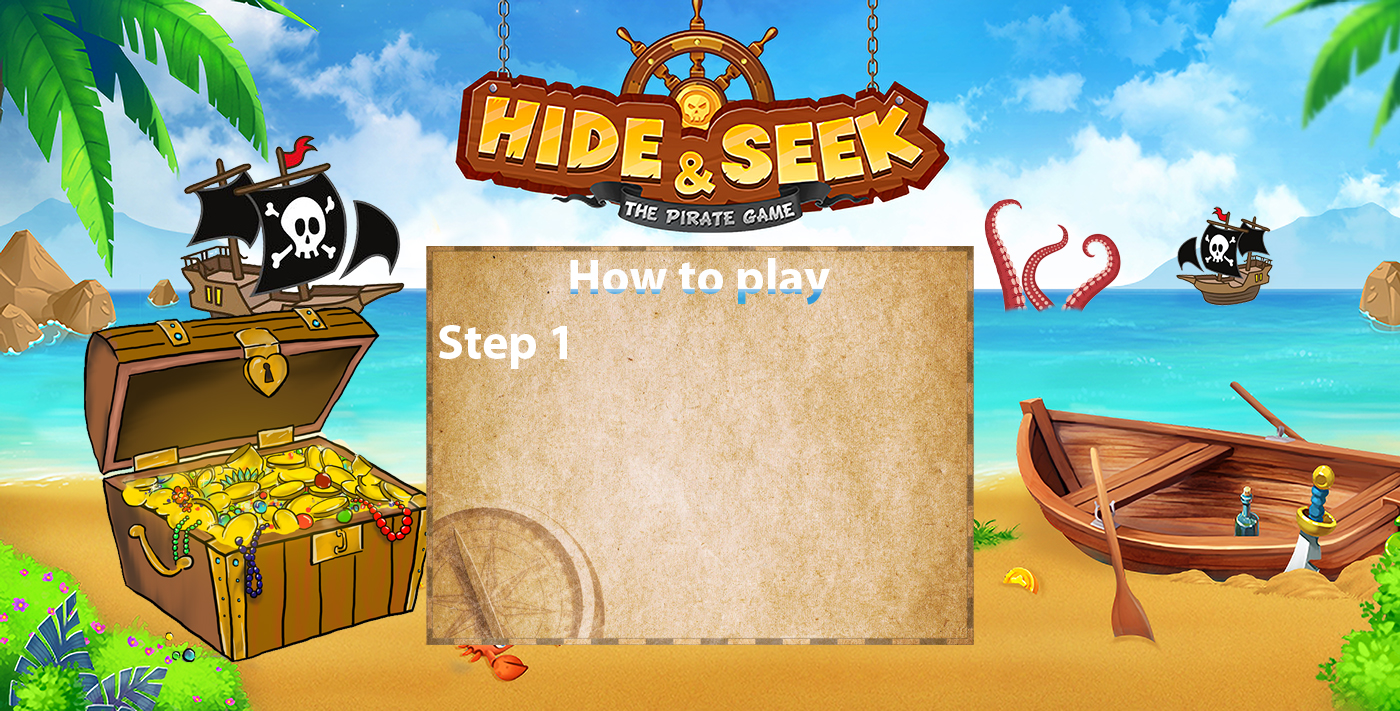
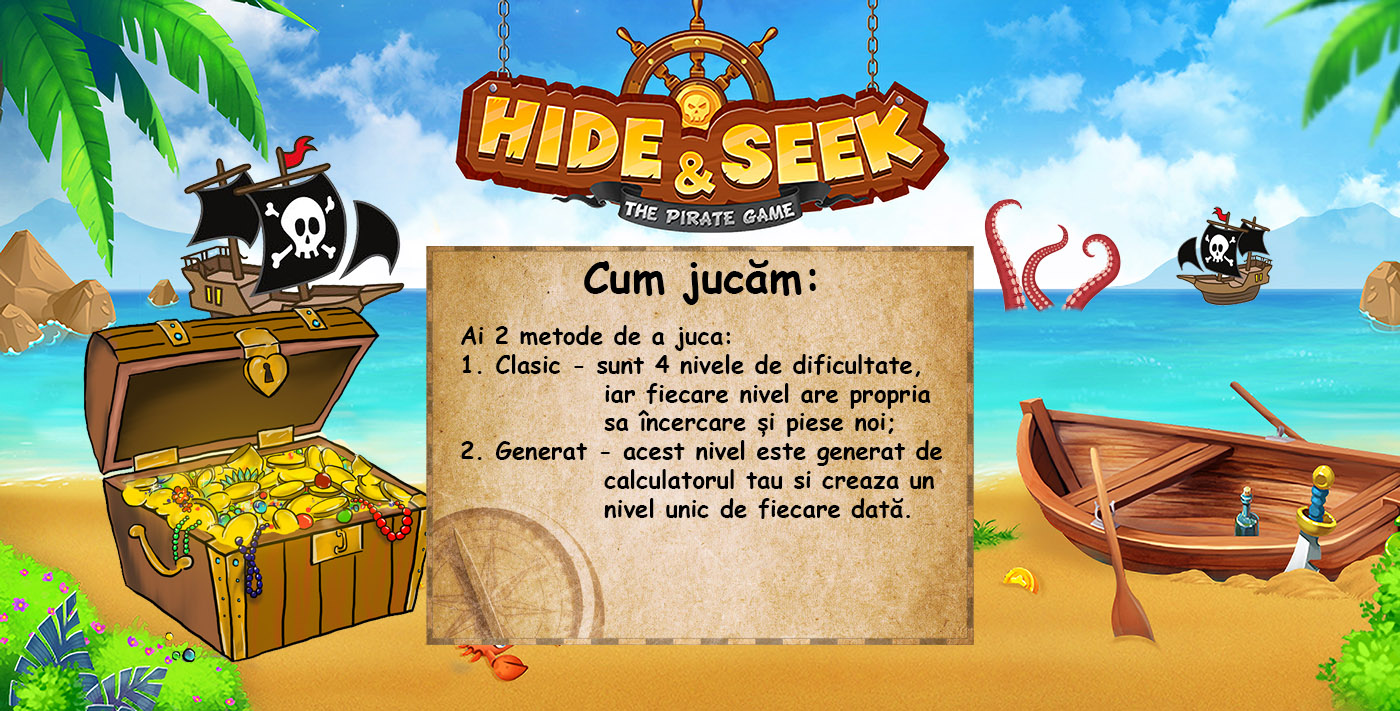
Am finisat niste chestii
Tutorialul l-am editat si am pus comment la functii (cine a creat functia)

Changed region(s): [[0.3071, 0.4332, 0.6757, 0.7426], [0.3993, 0.3404, 0.6143, 0.4332]]

diff --git a/main.cpp b/main.cpp
@@ -70,7 +70,8 @@ void rotate90Clockwise(int a[N][N]) //functie pentru a roti piesa selectata
     }
 }
 
-void refresh_board(int squares, int first_poz, int selected_level){ //citeste din nou matricea tablei de joc: squares - cate patrate trebuie citite,
+void refresh_board(int squares, int first_poz, int selected_level){ // Creat de: Erhan Adrian
+                                                //                                    citeste din nou matricea tablei de joc: squares - cate patrate trebuie citite,
                                                 //                                        first_poz - de la care patrat incepem citirea
     ifstream fi; string aux;
     if (selected_level == 1){
@@ -114,7 +115,7 @@ void refresh_board(int squares, int first_poz, int selected_level){ //citeste di
     fi.close();
 }
 
-void read_shapes(){
+void read_shapes(){ // Creat de: Erhan Adrian
     ifstream fi;
     ofstream fo;
     string aux;
@@ -148,7 +149,8 @@ void read_shapes(){
 }
 //End
 
-void hide_matrix(int a[][3],int b[][3]){//logica pentru suprapunerea matricelor
+void hide_matrix(int a[][3],int b[][3]){// Creat de: Erhan Adrian
+                                        //logica pentru suprapunerea matricelor
     for(int i=0;i<3;i++){
         for(int j=0;j<3;j++){
             if(b[i][j]==1){
@@ -158,7 +160,8 @@ void hide_matrix(int a[][3],int b[][3]){//logica pentru suprapunerea matricelor
     }
 }
 
-void square(int x, int y, int size, bool fillshape,int color[3]){ //deseneaza un patrat cu coordonatele coltului stang sus (x,y), latura de marime size si culoarea rgb color,
+void square(int x, int y, int size, bool fillshape,int color[3]){ // Creat de: Erhan Adrian
+                                                                  //deseneaza un patrat cu coordonatele coltului stang sus (x,y), latura de marime size si culoarea rgb color,
                                                                   //daca fillshape e true se umple interiorul patratului cu culoarea selectata
     int shape[8] = {x,y, (x+size),y, (x+size),(y+size), x,(y+size)};
     if (fillshape){
@@ -173,14 +176,15 @@ void square(int x, int y, int size, bool fillshape,int color[3]){ //deseneaza un
     }
 }
 
-void fill_rect(int x, int y, int size_x, int size_y, int color[3]){ //umple un dreptunghi cu laturile size_x size_y si coordonatele (x,y), coloarea rgb - color
+void fill_rect(int x, int y, int size_x, int size_y, int color[3]){ // Creat de: Erhan Adrian
+                                                                    //umple un dreptunghi cu laturile size_x size_y si coordonatele (x,y), coloarea rgb - color
     int shape[8] = {x,y, (x+size_x),y, (x+size_x),(y+size_y), x,(y+size_y)};
     setfillstyle(SOLID_FILL,COLOR(color[0], color[1], color[2]));
     fillpoly(4,shape);
 
 }
 
-void draw_shape(int m[3][3], int x, int y, int lsize, int color[3]){
+void draw_shape(int m[3][3], int x, int y, int lsize, int color[3]){ // Creat de: Erhan Adrian
     //setcolor(RGB(light_blue[0], light_blue[1], light_blue[2]));
     int initial_x = x;
     for(int i=0;i<3;i++){
@@ -199,7 +203,7 @@ void draw_shape(int m[3][3], int x, int y, int lsize, int color[3]){
     }
 }
 
-void shape_container(int matrix[4][3][3], int c_x, int c_y, int c_size, int color1[3], int color2[3], int nrPiesa){
+void shape_container(int matrix[4][3][3], int c_x, int c_y, int c_size, int color1[3], int color2[3], int nrPiesa){ // Creat de: Erhan Adrian
     //c_x++; c_y++;
     //c_size -= 2;
     square( c_x, c_y, c_size/2-1, true, color1);
@@ -208,12 +212,13 @@ void shape_container(int matrix[4][3][3], int c_x, int c_y, int c_size, int colo
     draw_shape(matrix[nrPiesa],c_x,c_y,shape_size, color2);
 }
 
-bool in_border(int mX, int mY, int x, int y, int x1, int y1){
+bool in_border(int mX, int mY, int x, int y, int x1, int y1){ // Creat de: Erhan Adrian
     if (mX >= x && mX <= x1 && mY >= y && mY <= y1) return true;
     return false;
 }
 
-void copy_matrix(int m1[3][3], int m2[3][3]){//copie m2 in m1
+void copy_matrix(int m1[3][3], int m2[3][3]){// Creat de: Erhan Adrian
+                                                //copie m2 in m1
     for(int i=0;i<3;i++){
         for(int j=0;j<3;j++){
             m1[i][j] = m2[i][j];
@@ -221,7 +226,7 @@ void copy_matrix(int m1[3][3], int m2[3][3]){//copie m2 in m1
     }
 }
 
-void get_shapes(string filename){
+void get_shapes(string filename){ // Creat de: Erhan Adrian
     fstream fi;
     fi.open(filename,ios::in);
     for(int k = 0 ; k < 4; k++){
@@ -267,7 +272,7 @@ void menu(){ //plaseaza fundalul si textul ferestrei de meniu
 
 }
 
-void gameMode(){
+void gameMode(){ // Creat de: Gavriliu Alin
     readimagefile("menu_background.jpg",0,0,screenWidth,screenHeight);
     setfillstyle(SOLID_FILL, COLOR(152, 65, 21));
     settextstyle(BOLD_FONT, HORIZ_DIR, 6);
@@ -341,7 +346,7 @@ void levels(){ //pagina pentru selectarea gradului de dificultate a jocului
     }
 }
 
-void playMusic(bool music){
+void playMusic(bool music){ // Creat de: Gavriliu Alin
   if (music==true)
     PlaySound(TEXT("audio/pirates.wav"), NULL, SND_FILENAME|SND_ASYNC);
   else
@@ -404,7 +409,7 @@ void settings(){ //plaseaza fundalul si textul ferestrei setari
 }
 
 void howto(int step)
-{
+{ // Creat de: Gavriliu Alin
     if(in_english){
        if(step==1)
             readimagefile("english/howto1.jpg",0,0,screenWidth,screenHeight);
@@ -444,7 +449,7 @@ void howto(int step)
 
 }
 
-void board(){
+void board(){ // Creat de: Gavriliu Alin
     setfillstyle(SOLID_FILL, COLOR(152, 65, 21));
     settextstyle(BOLD_FONT, HORIZ_DIR, 5);
 
@@ -512,7 +517,7 @@ void board(){
 
 }
 
-void close_level(){
+void close_level(){ // Creat de: Erhan Adrian + Gavriliu Alin
     for(int i=0;i<4;i++){
         available[i] = true;
         placed_pieces[i] = false;
@@ -544,7 +549,7 @@ void close_level(){
     playingGenerated = false;
 }
 
-bool all_placed(){
+bool all_placed(){ // Creat de: Erhan Adrian
     for(int i = 0; i<4; i++){
         if(placed_pieces[i] == false) return false;
     }
@@ -552,7 +557,7 @@ bool all_placed(){
     return true;
 }
 
-bool check_solution(){
+bool check_solution(){ // Creat de: Erhan Adrian
     /*cout<<"Board Matrix result: "<<endl;
     for(int k = 0; k < 4; k++){
         for(int i = 0; i < 3; i++){
@@ -629,7 +634,7 @@ bool check_solution(){
 
 
 //Challenge generator
-void generate_challenge(){
+void generate_challenge(){ // Creat de: Erhan Adrian
     int used_numbers[4] = {-1,-1,-1,-1};
     int k = 0, aux;
     int aux_matrix[3][3];
@@ -713,7 +718,7 @@ void generate_challenge(){
 
 }
 
-void print_challenge(){
+void print_challenge(){ // Creat de: Erhan Adrian
     ofstream fo;
     fo.open("generated/challenge.in",ios::trunc);
     int i = 0;
@@ -726,7 +731,7 @@ void print_challenge(){
     }
 }
 
-void display_challenge(int startX, int startY){ //deafult shall be x = 300 y = 42 size: 600 X 90
+void display_challenge(int startX, int startY){ // Creat de: Erhan Adrian
 
     setfillstyle(SOLID_FILL, COLOR(252, 243, 134));
     //bar(startX, startY, startX + 610, startY + 90);
@@ -765,13 +770,13 @@ void display_challenge(int startX, int startY){ //deafult shall be x = 300 y = 4
     }
 }
 //End
-void refresh_challenge(){
+void refresh_challenge(){ // Creat de: Erhan Adrian
     for(int i = 0; i < 16; i++){
         challenge[i] = -1;
     }
 }
 
-void won(){
+void won(){ // Creat de: Erhan Adrian + Gavriliu Alin
     PlaySound(TEXT("audio/winSound.wav"), NULL, SND_FILENAME|SND_ASYNC);
     setbkcolor(COLOR(139, 194, 234));
     setfillstyle(SOLID_FILL, COLOR(139, 194, 234));
@@ -804,7 +809,7 @@ void won(){
     }
 }
 
-void lost(){
+void lost(){ // Creat de: Erhan Adrian + Gavriliu Alin
     PlaySound(TEXT("audio/loseSound.wav"), NULL, SND_FILENAME|SND_ASYNC);
     setbkcolor(COLOR(139, 194, 234));
     setfillstyle(SOLID_FILL, COLOR(139, 194, 234));
@@ -844,7 +849,7 @@ void lost(){
     }
 }
 
-void get_solution(int level){
+void get_solution(int level){ // Creat de: Erhan Adrian
     if(level == 1){ //starter
         solution[0] = 1; solution[1] = 2; solution[2] = 2; solution[3] = 3;
         solution_rotation[0] = 0; solution_rotation[1] = 0; solution_rotation[2] = 3; solution_rotation[3] = 1;
@@ -863,7 +868,7 @@ void get_solution(int level){
     }
 }
 
-void give_hint(int aux_arr[4]){
+void give_hint(int aux_arr[4]){ // Creat de: Erhan Adrian
     bool is_hint = false;
     int square_num; int piece; int nr;
     int aux_mat[3][3];
@@ -914,7 +919,7 @@ void give_hint(int aux_arr[4]){
     }
 }
 
-void get_challenge(string levelname){
+void get_challenge(string levelname){ // Creat de: Erhan Adrian
     fstream fi;
     string aux; aux = levelname+"/challenge.in";
     fi.open(aux,ios::in);
@@ -927,7 +932,7 @@ void get_challenge(string levelname){
     fi.close();
 }
 
-void tryAgain(){
+void tryAgain(){ // Creat de: Gavriliu Alin
 
     for(int i=0;i<4;i++){
         available[i] = true;
@@ -1032,7 +1037,7 @@ bool startGame(){// ciclul principal al jocului unde are loc procesarea logicii
                 levels();
             }
             //nivelul Generated
-            if(in_border(mouseX, mouseY, 507, 506, 893, 580)){
+            if(in_border(mouseX, mouseY, 507, 506, 893, 580)){// Creat de: Erhan Adrian
                 //close_level();
                 clearmouseclick(WM_LBUTTONDOWN);
                 in_gameMode = false; gameStarted = true;
@@ -1105,7 +1110,7 @@ bool startGame(){// ciclul principal al jocului unde are loc procesarea logicii
             }
 
         }
-        if(gameStarted){
+        if(gameStarted){// Creat de: Gavriliu Alin + Erhan Adrian
 
             int nr;
             //placed contorizeaza numarul pieselor plasate
@@ -1389,7 +1394,7 @@ bool startGame(){// ciclul principal al jocului unde are loc procesarea logicii
 
         }
         //Win / Lose
-        if(win_screen){
+        if(win_screen){ // Creat de: Gavriliu Alin + Erhan Adrian
             if(in_border(mouseX, mouseY, 413, 207, 993, 493)){
                 win_screen = false;
                 gameStarted = true;
@@ -1399,7 +1404,7 @@ bool startGame(){// ciclul principal al jocului unde are loc procesarea logicii
                 close_level();
             }
         }
-        if(lose_screen){
+        if(lose_screen){ // Creat de: Gavriliu Alin + Erhan Adrian
             //tryAgain(); - trebuie de pus pe click + de facut functie pentru inregistrarea challenge-ului la generated
             if(in_border(mouseX, mouseY, 469, 423, 649, 473)){
                 lose_screen = false;
@@ -1415,8 +1420,8 @@ bool startGame(){// ciclul principal al jocului unde are loc procesarea logicii
                 tryAgain();
             }
         }
-        if(in_settings){
-            /*if(mouseX > 853 && mouseX < 936 && mouseY > 340 && mouseY < 395){ //music on/off
+        if(in_settings){ // Creat de: Gavriliu Alin
+            if(mouseX > 853 && mouseX < 936 && mouseY > 340 && mouseY < 395){ //music on/off
                 clearmouseclick(WM_LBUTTONDOWN);
                 if (music==true)
                 {
@@ -1426,7 +1431,13 @@ bool startGame(){// ciclul principal al jocului unde are loc procesarea logicii
                     settextstyle(BOLD_FONT, HORIZ_DIR, 5);
                     setbkcolor(COLOR(139, 194, 234));
                     bar(853, 340, 936, 395);
-                    outtextxy(895-textwidth("OFF")/2, 367-textheight("O")/2, "OFF");
+                    if(in_english){
+                        outtextxy(895-textwidth("OFF")/2, 367-textheight("O")/2, "OFF");
+                    }
+                    else{
+                        outtextxy(895-textwidth("NU")/2, 367-textheight("N")/2, "NU");
+                    }
+
                 }
                 else
                 {
@@ -1436,9 +1447,14 @@ bool startGame(){// ciclul principal al jocului unde are loc procesarea logicii
                     settextstyle(BOLD_FONT, HORIZ_DIR, 5);
                     setbkcolor(COLOR(139, 194, 234));
                     bar(853, 340, 936, 395);
-                    outtextxy(895-textwidth("ON")/2, 367-textheight("O")/2, "ON");
+                    if(in_english){
+                        outtextxy(895-textwidth("ON")/2, 367-textheight("O")/2, "ON");
+                    }
+                    else{
+                        outtextxy(895-textwidth("DA")/2, 367-textheight("D")/2, "DA");
+                    }
                 }
-            }*/
+            }
             if(in_border(mouseX,mouseY,307, 609, 452, 664)){
                 clearmouseclick(WM_LBUTTONDOWN);
                 in_settings = false; in_menu = true;
@@ -1465,7 +1481,7 @@ bool startGame(){// ciclul principal al jocului unde are loc procesarea logicii
             }
         }
 
-        if(in_tutorial){
+        if(in_tutorial){ // Creat de: Gavriliu Alin
 
             if(draw){
                 draw = false;
